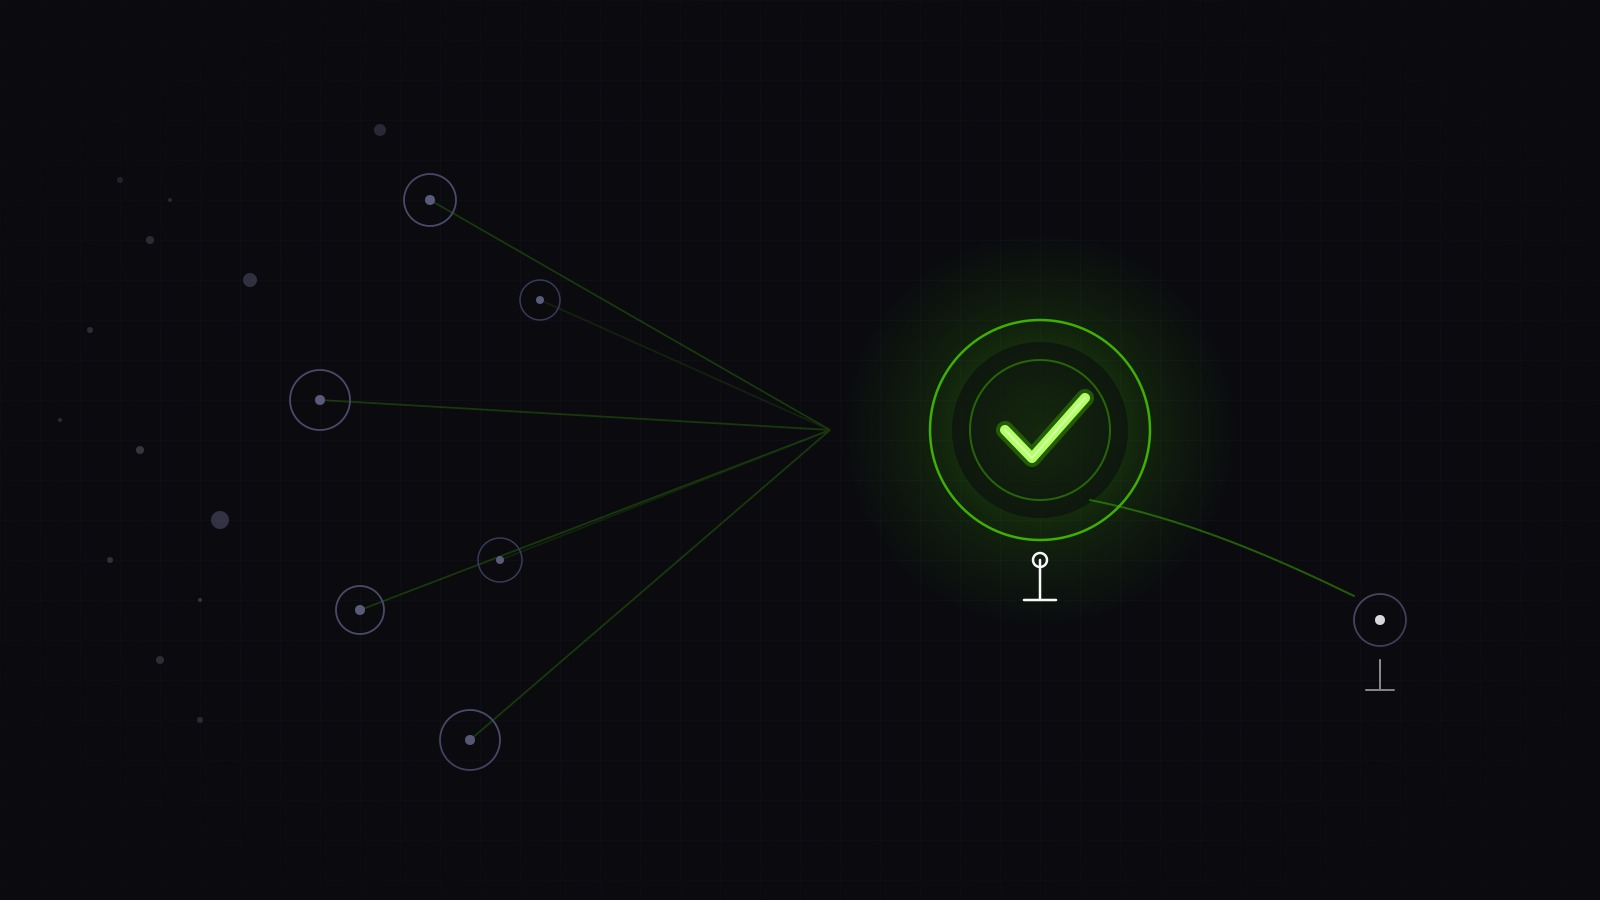
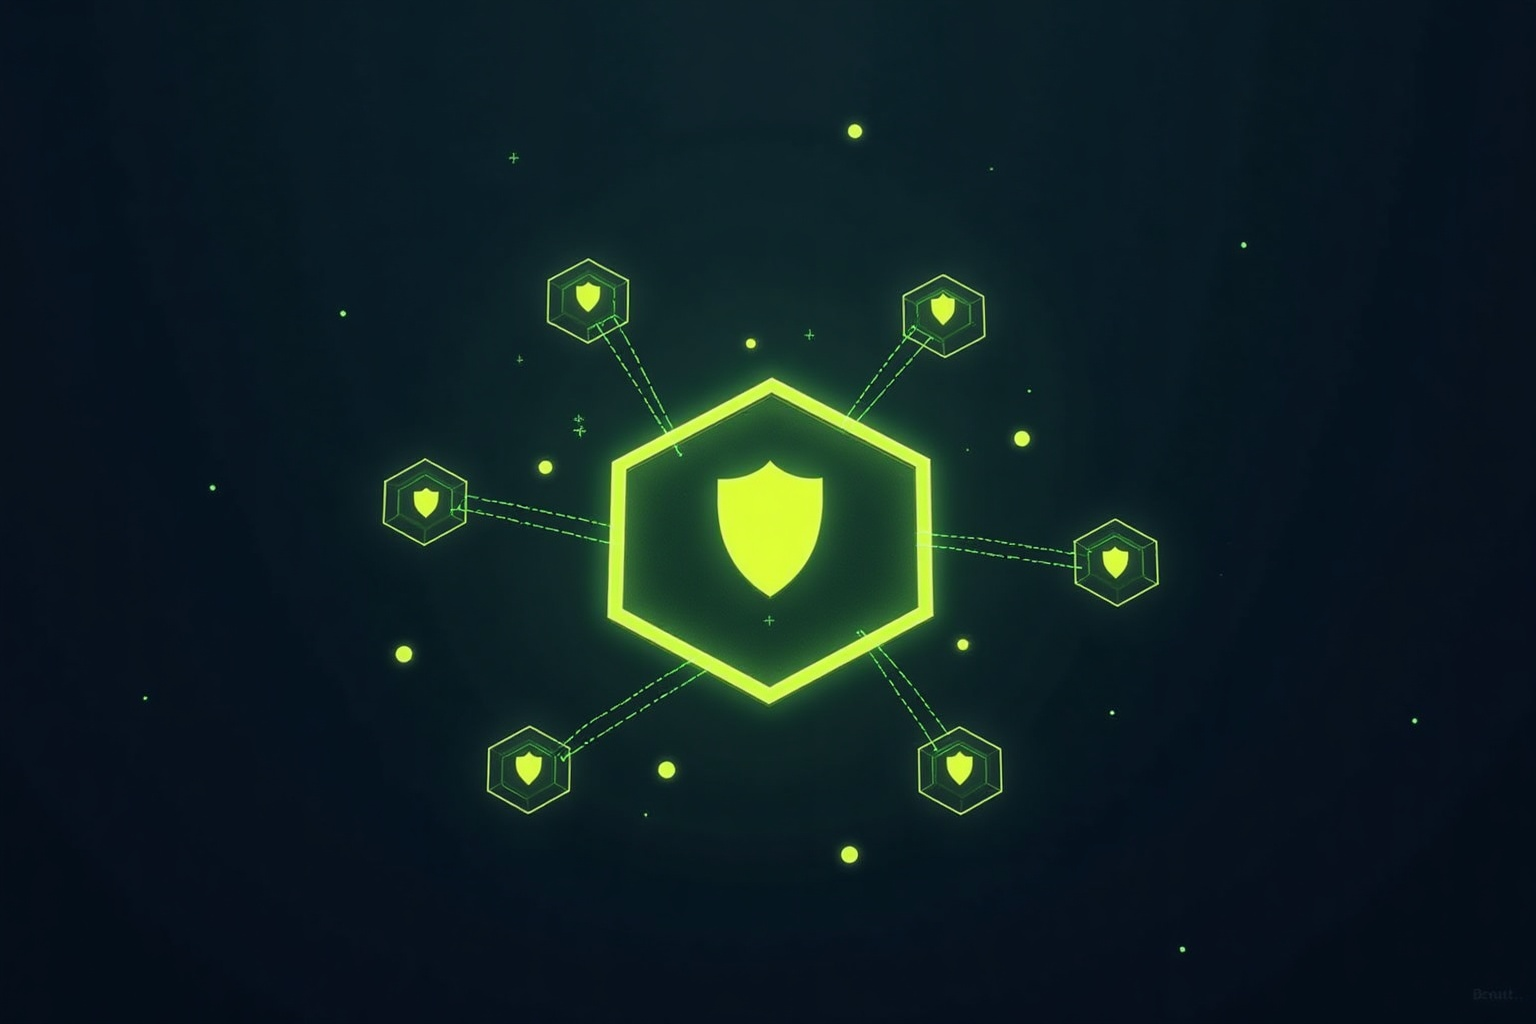
blog: governance-by-default — governance as floor, digestion as moat (full post + moat integration + images)

diff --git a/app/blog/governance-by-default/page.tsx b/app/blog/governance-by-default/page.tsx
@@ -1,0 +1,262 @@
+export const metadata = {
+  title: 'Governance Is the Plumbing. Digestion Is the Moat. — Franklin J Bryant IV',
+  description: 'Cloudflare OS validates enterprise agent governance. But governance is plumbing, not a moat. The moat is digestion — making AI disappear into the outcome for businesses that will never touch a model.',
+  keywords: ['Franklin J Bryant IV', 'Franklin Bryant', 'Franklin Jordan Bryant', 'ALBS', 'Cloudflare OS', 'AI governance', 'agent orchestration', 'digestion layer', 'AI moat', 'Prospyr 305', 'AI transformation', 'enterprise AI', 'agent architecture'],
+  openGraph: {
+    title: 'Governance Is the Plumbing. Digestion Is the Moat.',
+    description: 'Cloudflare OS validates enterprise agent governance. But governance is plumbing. The real moat is digestion — making AI disappear into the outcome.',
+    images: ['/blog/governance-by-default-hero.jpg'],
+  },
+};
+
+export default function GovernanceByDefault() {
+  const jsonLd = {
+    '@context': 'https://schema.org',
+    '@type': 'Article',
+    headline: 'Governance Is the Plumbing. Digestion Is the Moat.',
+    description: 'Cloudflare OS validates enterprise agent governance. But governance is plumbing, not a moat. The moat is digestion — making AI disappear into the outcome for businesses that will never touch a model.',
+    author: {
+      '@type': 'Person',
+      name: 'Franklin J Bryant IV',
+      url: 'https://franklin.simplifyingbusinesses.com',
+      sameAs: [
+        'https://github.com/FranklinIV94',
+        'https://www.linkedin.com/in/franklin-bryant-36115363/',
+        'https://x.com/theycallmeking_',
+        'https://www.crunchbase.com/organization/all-lines-business-solutions',
+      ],
+    },
+    datePublished: '2026-08-07',
+    dateModified: '2026-08-07',
+    publisher: {
+      '@type': 'Organization',
+      name: 'Franklin J Bryant IV',
+      logo: {
+        '@type': 'ImageObject',
+        url: 'https://franklin.simplifyingbusinesses.com/logo.png',
+      },
+    },
+    mainEntityOfPage: 'https://franklin.simplifyingbusinesses.com/blog/governance-by-default',
+    keywords: ['Franklin J Bryant IV', 'Franklin Bryant', 'Franklin Jordan Bryant', 'ALBS', 'Cloudflare OS', 'AI governance', 'agent orchestration', 'digestion layer', 'AI moat', 'Prospyr 305', 'AI transformation', 'enterprise AI'],
+  };
+
+  return (
+    <article className="mx-auto max-w-4xl px-6 py-16">
+      <script
+        type="application/ld+json"
+        dangerouslySetInnerHTML={{ __html: JSON.stringify(jsonLd) }}
+      />
+
+      {/* Hero */}
+      <header className="mb-16">
+        <div className="mb-4 inline-flex items-center gap-2 rounded-full bg-accent/10 border border-accent/20 px-3 py-1 text-xs font-semibold text-accent">
+          Blog · August 7, 2026
+        </div>
+        <h1 className="font-display font-bold text-4xl leading-tight tracking-tight sm:text-5xl text-white">
+          Governance Is the Plumbing. Digestion Is the Moat<span className="text-accent">.</span>
+        </h1>
+        <p className="mt-4 text-xl text-gray-300 max-w-2xl">
+          Cloudflare open-sourced Cloudflare OS during Agents Week. The tech press called it an AI workspace. That&apos;s underselling it — and missing the point. Governance is necessary infrastructure. But it&apos;s not the moat.
+        </p>
+        <div className="mt-6 flex items-center gap-3 text-sm text-gray-400">
+          <span className="font-semibold text-white">Franklin J Bryant IV</span>
+          <span>·</span>
+          <span>COO, All Lines Business Solutions</span>
+        </div>
+      </header>
+
+      {/* Hero image */}
+      <figure className="mb-16 mt-10 overflow-hidden rounded-2xl border border-border">
+        <img
+          src="/blog/governance-by-default-hero.jpg"
+          alt="Abstract visualization: a glowing green governance framework at the center, AI agents contained within permission boundaries, connector lines radiating outward"
+          className="w-full"
+        />
+        <figcaption className="mt-2 text-xs text-gray-500 text-center">
+          Governance is the scaffolding. Digestion is what you build with it.
+        </figcaption>
+      </figure>
+
+      {/* Body */}
+      <div className="space-y-8 text-lg leading-relaxed text-gray-200">
+
+        <p>
+          When Cloudflare open-sourced Cloudflare OS during their Agents Week, the tech press called it an &ldquo;AI workspace.&rdquo; That&apos;s underselling it. What they actually built is an execution layer that grounds AI agents in a company&apos;s real context, systems, and approval flows — instead of letting them roam free against commercial models with exposed API keys.
+        </p>
+        <p>
+          That&apos;s not a workspace. That&apos;s a governance framework. And it validates an architecture we&apos;ve been building for months.
+        </p>
+
+        <h2 className="font-display font-bold text-2xl text-white mt-12">The Problem Cloudflare OS Solves</h2>
+        <p>
+          Every company hitting AI adoption at scale hits the same wall: employees are pasting sensitive data into ChatGPT, API keys are leaking into agent contexts, and nobody knows which model is spending what. The workaround culture is worse than the problem — people build shadow automations with zero oversight because the &ldquo;approved&rdquo; path is too slow.
+        </p>
+        <p>
+          Cloudflare&apos;s answer is to make the approved path fast enough that nobody needs workarounds. Agents run in an isolated browser-based workspace with <code className="text-accent">workerd</code> runtime. They get zero permissions by default. Every access to an external system — GitHub, Google, Slack, Notion, Supabase — flows through a Gatekeeper: a governed connector that defines what an agent can see, what it can modify, and when a human needs to approve.
+        </p>
+
+        <h2 className="font-display font-bold text-2xl text-white mt-12">Where It Maps to What We&apos;re Building</h2>
+        <p>
+          Our Ops Center spec — the agent channel system on the ALBS Portal with Supabase — was drafted before Cloudflare OS was public. Looking at the two side by side, the overlap is almost 1:1:
+        </p>
+
+        {/* Comparison table */}
+        <div className="my-8 overflow-x-auto">
+          <table className="w-full text-sm border border-border rounded-lg overflow-hidden">
+            <thead>
+              <tr className="bg-accent/10">
+                <th className="px-4 py-3 text-left font-semibold text-accent">Cloudflare OS</th>
+                <th className="px-4 py-3 text-left font-semibold text-accent">Our Ops Center</th>
+              </tr>
+            </thead>
+            <tbody className="divide-y divide-border">
+              <tr className="hover:bg-white/5">
+                <td className="px-4 py-3 text-gray-300">Gatekeepers (governed connectors)</td>
+                <td className="px-4 py-3 text-gray-300">Agent permission scoping per integration</td>
+              </tr>
+              <tr className="hover:bg-white/5">
+                <td className="px-4 py-3 text-gray-300">Zero-trust by default</td>
+                <td className="px-4 py-3 text-gray-300">Context-layer audit findings (plaintext API keys → scoped access)</td>
+              </tr>
+              <tr className="hover:bg-white/5">
+                <td className="px-4 py-3 text-gray-300">Async human-in-the-loop approval</td>
+                <td className="px-4 py-3 text-gray-300">Approval queue in portal task board</td>
+              </tr>
+              <tr className="hover:bg-white/5">
+                <td className="px-4 py-3 text-gray-300">AI Gateway per-user/team spend tracking</td>
+                <td className="px-4 py-3 text-gray-300">Cost-tracking with Micro/Standard/Premium/Local routing tiers</td>
+              </tr>
+              <tr className="hover:bg-white/5">
+                <td className="px-4 py-3 text-gray-300">Blueprints (reusable templates)</td>
+                <td className="px-4 py-3 text-gray-300">Skill templates in OpenClaw</td>
+              </tr>
+            </tbody>
+          </table>
+        </div>
+
+        <p>
+          This isn&apos;t us copying their homework. It&apos;s independent convergence on the same architecture — which is the strongest validation you can get. When two teams build toward the same problem from different starting points and land on the same structure, the structure is probably right.
+        </p>
+
+        <h2 className="font-display font-bold text-2xl text-white mt-12">What We&apos;re Borrowing (Not Adopting)</h2>
+        <p>
+          Cloudflare OS is deeply coupled to their stack: <code className="text-accent">workerd</code>, Workers, Durable Objects, Cloudflare Access. Deploying it wholesale means buying into their ecosystem. That&apos;s not our path. But four patterns are worth folding into what we already have:
+        </p>
+
+        <div className="space-y-6 mt-6">
+          <div className="border-l-2 border-accent/40 pl-6">
+            <h3 className="font-semibold text-white text-lg">1. Async Human-in-the-Loop Approval Queue</h3>
+            <p className="mt-2 text-gray-300">
+              Cloudflare OS doesn&apos;t hard-stop a workflow when an agent needs permission. It simulates the action, queues it, and batches approvals. This keeps velocity without losing oversight. Our portal task board already has the structure for this — we just need to wire agent actions into it as approval items.
+            </p>
+          </div>
+          <div className="border-l-2 border-accent/40 pl-6">
+            <h3 className="font-semibold text-white text-lg">2. Gatekeeper-Style Governed Connectors</h3>
+            <p className="mt-2 text-gray-300">
+              Our context-layer audit flagged plaintext API keys in tool configs leaking into every lightContext session. The Gatekeeper pattern is the fix: a connector layer that mediates agent access to external systems with explicit read/modify/approve rules. No agent gets a raw API key. Every external call goes through a named, audited connector.
+            </p>
+          </div>
+          <div className="border-l-2 border-accent/40 pl-6">
+            <h3 className="font-semibold text-white text-lg">3. Zero-Permission-by-Default Agents</h3>
+            <p className="mt-2 text-gray-300">
+              Agents start with nothing. Access scales to exactly what the active user is authorized for. This is the right default — the opposite of &ldquo;give the agent admin and hope for the best.&rdquo;
+            </p>
+          </div>
+          <div className="border-l-2 border-accent/40 pl-6">
+            <h3 className="font-semibold text-white text-lg">4. Blueprint Template Reuse</h3>
+            <p className="mt-2 text-gray-300">
+              When an agent produces a useful workflow, save it as a template others can deploy. We already do this with OpenClaw skills. Formalizing it as a reuse pattern across the org is a natural next step.
+            </p>
+          </div>
+        </div>
+
+        {/* Mid-article image: connectors */}
+        <figure className="my-12 overflow-hidden rounded-2xl border border-border">
+          <img
+            src="/blog/governance-by-default-connectors.jpg"
+            alt="Abstract: a gateway layer of glowing green nodes between AI agents and external systems, with approval indicators on data flows"
+            className="w-full"
+          />
+          <figcaption className="mt-2 text-xs text-gray-500 text-center">
+            Every external call flows through a named, audited connector. No agent gets a raw API key.
+          </figcaption>
+        </figure>
+
+        <h2 className="font-display font-bold text-2xl text-white mt-12">What We&apos;re Doing Differently</h2>
+        <p>
+          Cloudflare OS is built for the Cloudflare ecosystem. Our stack is OpenClaw + Supabase + portal + local Ollama models. That means:
+        </p>
+        <ul className="space-y-3 pl-6 mt-4">
+          <li><strong className="text-accent">Model routing is ours.</strong> Our tiered routing (Micro/Standard/Premium/Local) runs through our own gateway, not Cloudflare&apos;s AI Gateway. We control cost per agent, per task, per client.</li>
+          <li><strong className="text-accent">Data stays ours.</strong> No <code className="text-accent">workerd</code>, no Workers, no Durable Objects. Our agents run on infrastructure we control.</li>
+          <li><strong className="text-accent">The portal is the front end.</strong> Not a browser workspace — a real multi-tenant portal where clients, agents, and humans all interact through the same channel system.</li>
+        </ul>
+
+        <h2 className="font-display font-bold text-2xl text-white mt-12">Governance Is the Plumbing. Digestion Is the Moat.</h2>
+        <p>
+          Here&apos;s where the framing diverges. Cloudflare OS is a governance play — and governance is necessary infrastructure. But governance is plumbing, not a moat. The tech layer (models, orchestration, tools) is commoditizing fast. Open weights, cheap inference, DeepSeek and Ollama — everyone has access to the same engines. Governance frameworks will commoditize too.
+        </p>
+        <p>
+          What doesn&apos;t commoditize is <strong className="text-accent">digestion</strong>: making AI trustworthy, accountable, and invisible for people who will never touch a model. That&apos;s the moat. And governance is one step toward it — the plumbing that makes digestion possible.
+        </p>
+        <p>
+          Cloudflare builds governance for the ecosystem. We build governance as one layer in a stack designed to make AI disappear into the outcome. The four moves that compound:
+        </p>
+
+        {/* Mid-article image: moat/digestion */}
+        <figure className="my-12 overflow-hidden rounded-2xl border border-border">
+          <img
+            src="/blog/governance-by-default-moat.jpg"
+            alt="Abstract: two distinct layers — commoditized gray tech blocks at the bottom, glowing green digestion layer at the top with human silhouettes receiving plain-language results"
+            className="w-full"
+          />
+          <figcaption className="mt-2 text-xs text-gray-500 text-center">
+            The tech layer commoditizes. The digestion layer compounds. We own the digestion layer.
+          </figcaption>
+        </figure>
+
+        <ol className="space-y-6 pl-6 mt-6 list-decimal">
+          <li>
+            <strong className="text-white">Translate, don&apos;t explain.</strong> Users state a need in plain terms → get a trusted result → no concept of &ldquo;agent&rdquo; required. Governance ensures the translation is safe. Digestion makes the user never need to know it happened.
+          </li>
+          <li>
+            <strong className="text-white">The receipt pattern.</strong> Every automated action leaves a plain-language record: what was done, why, what it cost, who to call if it&apos;s wrong. Governance produces the audit trail. Digestion turns it into something a small business owner actually reads.
+          </li>
+          <li>
+            <strong className="text-white">Human escalation as a feature.</strong> A human is always one step away. Governance defines when escalation triggers. Digestion makes the handoff feel seamless — the user never experiences &ldquo;the AI failed,&rdquo; they experience &ldquo;my provider stepped in.&rdquo;
+          </li>
+          <li>
+            <strong className="text-white">Opaque competence as the goal.</strong> When AI disappears into the outcome, the user never needs to become a user. &ldquo;Just handles my stuff&rdquo; is full adoption. Governance makes that safe enough to promise. Digestion makes it real.
+          </li>
+        </ol>
+
+        <p className="mt-8">
+          This is why we don&apos;t compete at the tech layer. We don&apos;t sell &ldquo;AI.&rdquo; We don&apos;t sell &ldquo;governance.&rdquo; We sell the outcome — payroll handled, books closed, compliance filed — and the AI is invisible infrastructure underneath. Cloudflare&apos;s governance framework validates the plumbing. Our moat is what we build on top of it.
+        </p>
+
+        <h2 className="font-display font-bold text-2xl text-white mt-12">The Takeaway</h2>
+        <p>
+          Cloudflare OS is the first credible open-source reference implementation for enterprise agent governance. It confirms that the architecture matters more than the models — that the scaffolding around AI (permissions, approval flows, cost tracking, connector governance) is where the real engineering work lives.
+        </p>
+        <p>
+          But governance is table stakes. The moat is digestion — the layer that makes AI trustworthy enough to disappear into the outcome for businesses that will never care about models. We&apos;re building that, vendor-neutral, on infrastructure we own, for industries where trust is the deepest barrier to entry.
+        </p>
+
+        <p className="text-2xl font-display text-white border-l-4 border-accent pl-6 italic mt-12">
+          Governance is the plumbing. Digestion is the moat. We&apos;re building both.
+        </p>
+
+      </div>
+
+      {/* Footer */}
+      <footer className="mt-16 pt-8 border-t border-gray-700 text-sm text-gray-400">
+        <p>
+          <strong className="text-white">Franklin J Bryant IV</strong> is COO of All Lines Business Solutions and founder of Prospyr 305, building AI systems that disappear into the outcome for small and mid-size businesses.
+        </p>
+        <p className="mt-4">
+          This piece analyzes Cloudflare OS (open-sourced during Agents Week 2026) alongside our internal Ops Center architecture and the Prospyr 305 moat thesis on AI digestion as a competitive moat.
+        </p>
+      </footer>
+    </article>
+  );
+}

diff --git a/lib/blog.ts b/lib/blog.ts
@@ -10,6 +10,14 @@ export type BlogPost = {
 // Sorted newest first. Update this when adding new posts.
 export const blogPosts: BlogPost[] = [
   {
+    slug: 'governance-by-default',
+    title: 'Governance by Default',
+    excerpt: 'Cloudflare OS proved the architecture matters more than the models. But governance is just the floor. The real moat is the digestion layer — making AI disappear into outcomes for people who will never touch a model.',
+    date: 'August 7, 2026',
+    dateISO: '2026-08-07',
+    tag: 'Architecture',
+  },
+  {
     slug: 'the-team-they-never-hired',
     title: 'The Team They Never Hired',
     excerpt: "Every small business needs an AI team. None can afford one. The opportunity isn't building AI — it's becoming the AI team for one industry you understand better than anyone in the room.",
